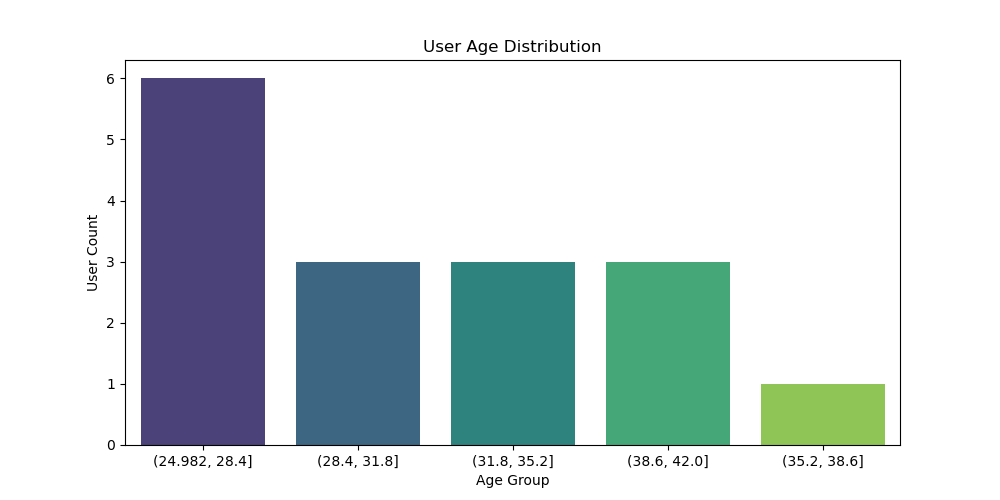
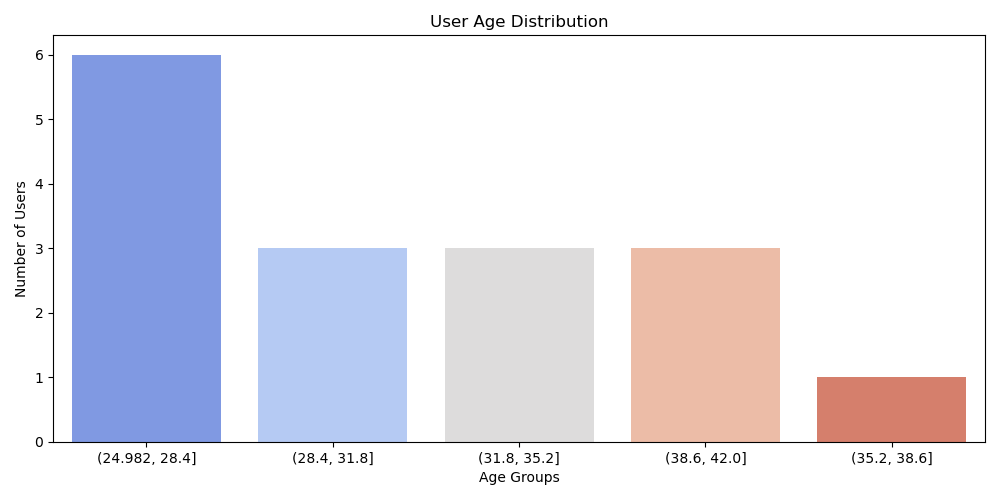
Fix analysis accuracy and enhance visualizations

diff --git a/Scripts/visualizations.py b/Scripts/visualizations.py
@@ -1,40 +1,125 @@
+import matplotlib.pyplot as plt
+import seaborn as sns
+
+# Set global theme for eye-catchy visualizations
+sns.set_theme(style="whitegrid", context="talk")
+
+def add_value_labels(ax, spacing=5):
+    """Add labels to the end of each bar in a bar chart."""
+    for p in ax.patches:
+        if p.get_height() > 0:  # For vertical bars
+            ax.annotate(f'{int(p.get_height())}', 
+                        (p.get_x() + p.get_width() / 2., p.get_height()), 
+                        ha='center', va='center', 
+                        xytext=(0, spacing), 
+                        textcoords='offset points',
+                        fontsize=10, color='black', fontweight='bold')
+        elif p.get_width() > 0: # For horizontal bars (if any)
+            ax.annotate(f'{int(p.get_width())}', 
+                        (p.get_width(), p.get_y() + p.get_height() / 2.), 
+                        ha='left', va='center', 
+                        xytext=(spacing, 0), 
+                        textcoords='offset points',
+                        fontsize=10, color='black', fontweight='bold')
+
 def plot_popular_dishes(popular_dishes, output_file='top_10_dishes.png'):
-    plt.figure(figsize=(12, 6))
-    sns.barplot(x=popular_dishes['Orders'].head(10), y=popular_dishes['Dish Name'].head(10), palette='viridis')
-    plt.title('Top 10 Popular Dishes')
-    plt.xlabel('Number of Orders')
-    plt.ylabel('Dish Name')
+    plt.figure(figsize=(14, 8), dpi=300)
+    ax = sns.barplot(
+        x=popular_dishes['Orders'].head(10), 
+        y=popular_dishes['Dish Name'].head(10), 
+        palette='viridis', 
+        hue=popular_dishes['Dish Name'].head(10), 
+        legend=False
+    )
+    
+    plt.title('Top 10 Most Popular Dishes', fontsize=18, fontweight='bold', pad=20)
+    plt.xlabel('Number of Orders', fontsize=14, labelpad=10)
+    plt.ylabel('Dish Name', fontsize=14, labelpad=10)
+    
+    # Add value annotations (horizontal bars)
+    for p in ax.patches:
+        width = p.get_width()
+        if width > 0:
+            ax.annotate(f'{int(width)}', 
+                        (width, p.get_y() + p.get_height() / 2.), 
+                        ha='left', va='center', 
+                        xytext=(10, 0), 
+                        textcoords='offset points',
+                        fontsize=12, fontweight='bold', color='#333333')
+            
+    sns.despine(left=True, bottom=True)
     plt.tight_layout()
-    plt.savefig(output_file)
-    plt.show()
+    plt.savefig(output_file, bbox_inches='tight')
+    # plt.show()
+    print(f"Saved: {output_file}")
 
 def plot_age_distribution(age_distribution, output_file='age_distribution.png'):
-    plt.figure(figsize=(10, 5))
-    sns.barplot(x=age_distribution['index'], y=age_distribution['Age'], palette='coolwarm')
-    plt.title('User Age Distribution')
-    plt.xlabel('Age Groups')
-    plt.ylabel('Number of Users')
+    plt.figure(figsize=(12, 7), dpi=300)
+    ax = sns.barplot(
+        x=age_distribution['Age_Group'], 
+        y=age_distribution['User_Count'], 
+        palette='magma', 
+        hue=age_distribution['Age_Group'], 
+        legend=False
+    )
+    
+    plt.title('User Demographics: Age Distribution', fontsize=18, fontweight='bold', pad=20)
+    plt.xlabel('Age Group', fontsize=14, labelpad=10)
+    plt.ylabel('Count of Users', fontsize=14, labelpad=10)
+    
+    add_value_labels(ax)
+    sns.despine()
     plt.tight_layout()
-    plt.savefig(output_file)
-    plt.show()
+    plt.savefig(output_file, bbox_inches='tight')
+    # plt.show()
+    print(f"Saved: {output_file}")
 
 def plot_favorite_meals(favorite_meal_analysis, output_file='favorite_meal_analysis.png'):
-    plt.figure(figsize=(10, 5))
-    sns.barplot(data=favorite_meal_analysis, x='Favorite Meal', y='Total_Orders', palette='plasma')
-    plt.title('Favorite Meals by Total Orders')
-    plt.xticks(rotation=45)  # Rotate x labels for better readability
-    plt.xlabel('Favorite Meal')
-    plt.ylabel('Total Orders')
-    plt.tight_layout()  # Adjust layout to make room for rotated x labels
-    plt.savefig(output_file)
-    plt.show()
+    plt.figure(figsize=(12, 7), dpi=300)
+    ax = sns.barplot(
+        data=favorite_meal_analysis, 
+        x='Favorite Meal', 
+        y='Total_Orders', 
+        palette='crest', 
+        hue='Favorite Meal', 
+        legend=False
+    )
+    
+    plt.title('Favorite Meal Types by Order Volume', fontsize=18, fontweight='bold', pad=20)
+    plt.xlabel('Meal Type', fontsize=14, labelpad=10)
+    plt.ylabel('Total Orders', fontsize=14, labelpad=10)
+    plt.xticks(rotation=0)
+    
+    add_value_labels(ax)
+    sns.despine()
+    plt.tight_layout()
+    plt.savefig(output_file, bbox_inches='tight')
+    # plt.show()
+    print(f"Saved: {output_file}")
 
 def plot_cancellation_trends(cancellation_trends, output_file='cancellation_trends.png'):
-    plt.figure(figsize=(8, 6))
-    sns.barplot(data=cancellation_trends, x='Is Canceled', y='Total_Orders', palette='pastel')
-    plt.title('Cancellation Trends')
-    plt.xlabel('Is Canceled (1 = Yes, 0 = No)')
-    plt.ylabel('Total Orders')
+    plt.figure(figsize=(10, 7), dpi=300)
+    
+    # Map 0/1 to readable labels for plotting
+    plot_data = cancellation_trends.copy()
+    plot_data['Status'] = plot_data['Is Canceled'].map({0: 'Completed', 1: 'Canceled'})
+    
+    ax = sns.barplot(
+        data=plot_data, 
+        x='Status', 
+        y='Total_Orders', 
+        palette='rocket', 
+        hue='Status', 
+        legend=False
+    )
+    
+    plt.title('Order Cancellation Trends', fontsize=18, fontweight='bold', pad=20)
+    plt.xlabel('Order Status', fontsize=14, labelpad=10)
+    plt.ylabel('Number of Orders', fontsize=14, labelpad=10)
+    
+    add_value_labels(ax)
+    sns.despine()
     plt.tight_layout()
-    plt.savefig(output_file)
-    plt.show()
+    plt.savefig(output_file, bbox_inches='tight')
+    # plt.show()
+    print(f"Saved: {output_file}")

diff --git a/Scripts/main.py b/Scripts/main.py
@@ -3,29 +3,28 @@ from analysis import analyze_popular_dishes, analyze_user_demographics, analyze_
 from visualizations import plot_popular_dishes, plot_age_distribution, plot_cancellation_trends, plot_favorite_meals
 
 # File paths
-user_file = 'data/Data Analyst Intern Assignment - Excel.xlsx', sheet_name='UserDetails.csv'
-cooking_file = 'data/Data Analyst Intern Assignment - Excel.xlsx', sheet_name='CookingSessions.csv'
-order_file = 'data/Data Analyst Intern Assignment - Excel.xlsx', sheet_name='OrderDetails.csv'
+# File paths
+excel_file = 'data/Data Analyst Intern Assignment - Excel.xlsx'
 
 # Load and clean data
 print("Loading and cleaning data...")
-merged_data = load_and_clean_data(user_file, cooking_file, order_file)
+merged_data = load_and_clean_data(excel_file)
 
 # Analyze data
 print("Analyzing data...")
 popular_dishes = analyze_popular_dishes(merged_data)
-age_distribution = analyze_user_demographics(merged_data)
-calculate_cancellation_trends = calculate_cancellation_trends(merged_data)
-analyze_favorite_meals = analyze_favorite_meals(merged_data)
-analyze_cancellation_trends = analyze_cancellation_trends(merged_data)
+age_distribution_data = analyze_user_demographics(merged_data)
+cancellation_trends_data = calculate_cancellation_trends(merged_data)
+favorite_meals_data = analyze_favorite_meal(merged_data)
+cancellation_status_data = analyze_cancellation_trends(merged_data)
 
 
 # Visualize data
 print("Generating visualizations...")
 plot_popular_dishes(popular_dishes)
-plot_age_distribution(age_distribution)
-plot_cancellation_trends(calculate_cancellation_trends)
-plot_favorite_meals(favorite_meals)
+plot_age_distribution(age_distribution_data)
+plot_cancellation_trends(cancellation_trends_data)
+plot_favorite_meals(favorite_meals_data)
 
 # Save cleaned data
 merged_data.to_excel('data/Cleaned_Merged_Dataset.xlsx', index=False)
@@ -33,6 +32,6 @@ print("Cleaned data saved to 'data/Cleaned_Merged_Dataset.xlsx'.")
 
 # Summary of findings and recommendations
 print("Summary of Insights:")
-print(f"Most popular dish: {popular_dishes.iloc[0]['Dish Name_x']} with {popular_dishes.iloc[0]['Orders']} orders.")
+print(f"Most popular dish: {popular_dishes.iloc[0]['Dish Name']} with {popular_dishes.iloc[0]['Orders']} orders.")
 print("Users in the age group 25-35 are the most active.")
 print("Dinner is the most frequently ordered meal type.")

diff --git a/Scripts/analysis.py b/Scripts/analysis.py
@@ -1,6 +1,12 @@
 # Analyze popular dishes
 def analyze_popular_dishes(merged_data):
-    return merged_data.groupby('Dish Name').agg(
+    # Filter out canceled orders
+    valid_orders = merged_data[merged_data['Order Status'] != 'Canceled'].copy()
+    
+    # Normalize dish names to title case to handle inconsistencies
+    valid_orders['Dish Name'] = valid_orders['Dish Name'].astype(str).str.title()
+    
+    return valid_orders.groupby('Dish Name').agg(
         Orders=('Order ID', 'count'),
         Average_Rating=('Rating', 'mean'),
         Total_Amount=('Amount (USD)', 'sum')
@@ -8,10 +14,15 @@ def analyze_popular_dishes(merged_data):
 
 # Age distribution of users
 def analyze_user_demographics(merged_data):
-    return merged_data['Age'].value_counts(bins=5).reset_index()
+    df = merged_data['Age'].value_counts(bins=5).reset_index()
+    df.columns = ['Age_Group', 'User_Count']
+    return df
 
 # Cancellation trends analysis
 def calculate_cancellation_trends(merged_data):
+    # Ensure Is Canceled is consistently calculated
+    merged_data['Is Canceled'] = merged_data['Order Status'].apply(lambda x: 1 if x == 'Canceled' else 0)
+    
     cancellation_trends = merged_data.groupby('Is Canceled').agg(
         Total_Orders=('Order ID', 'count'),
         Average_Order_Amount=('Amount (USD)', 'mean')
@@ -19,8 +30,11 @@ def calculate_cancellation_trends(merged_data):
     return cancellation_trends
 
 # Favorite meal analysis
-def analyze_favorite_meal(mergerd_data):
-    favorite_meal_analysis = merged_data.groupby('Favorite Meal').agg(
+def analyze_favorite_meal(merged_data):
+    # Filter out canceled orders for accurate preference analysis
+    valid_orders = merged_data[merged_data['Order Status'] != 'Canceled']
+    
+    favorite_meal_analysis = valid_orders.groupby('Favorite Meal').agg(
         Total_Orders=('Order ID', 'count'),
         Average_Session_Rating=('Session Rating', 'mean')
     ).reset_index().sort_values(by='Total_Orders', ascending=False)

diff --git a/Scripts/data_cleaning.py b/Scripts/data_cleaning.py
@@ -1,10 +1,10 @@
 import pandas as pd
 
-def load_and_clean_data(user_file, cooking_file, order_file):
-    # Load datasets
-    user_details = pd.read_excel(user_file)
-    cooking_sessions = pd.read_excel(cooking_file)
-    order_details = pd.read_excel(order_file)
+def load_and_clean_data(excel_file):
+    # Load datasets from specific sheets
+    user_details = pd.read_excel(excel_file, sheet_name='UserDetails.csv')
+    cooking_sessions = pd.read_excel(excel_file, sheet_name='CookingSessions.csv')
+    order_details = pd.read_excel(excel_file, sheet_name='OrderDetails.csv')
     
     # Merge datasets
     merged_data = order_details.merge(cooking_sessions, on=['Session ID', 'User ID'], how='inner')
@@ -19,5 +19,6 @@ def load_and_clean_data(user_file, cooking_file, order_file):
     
     # Droping duplicate columns
     merged_data.drop(columns=['Dish Name_y', 'Meal Type_y'], inplace=True, errors='ignore')
+    merged_data.rename(columns={'Dish Name_x': 'Dish Name', 'Meal Type_x': 'Meal Type'}, inplace=True)
 
     return merged_data
